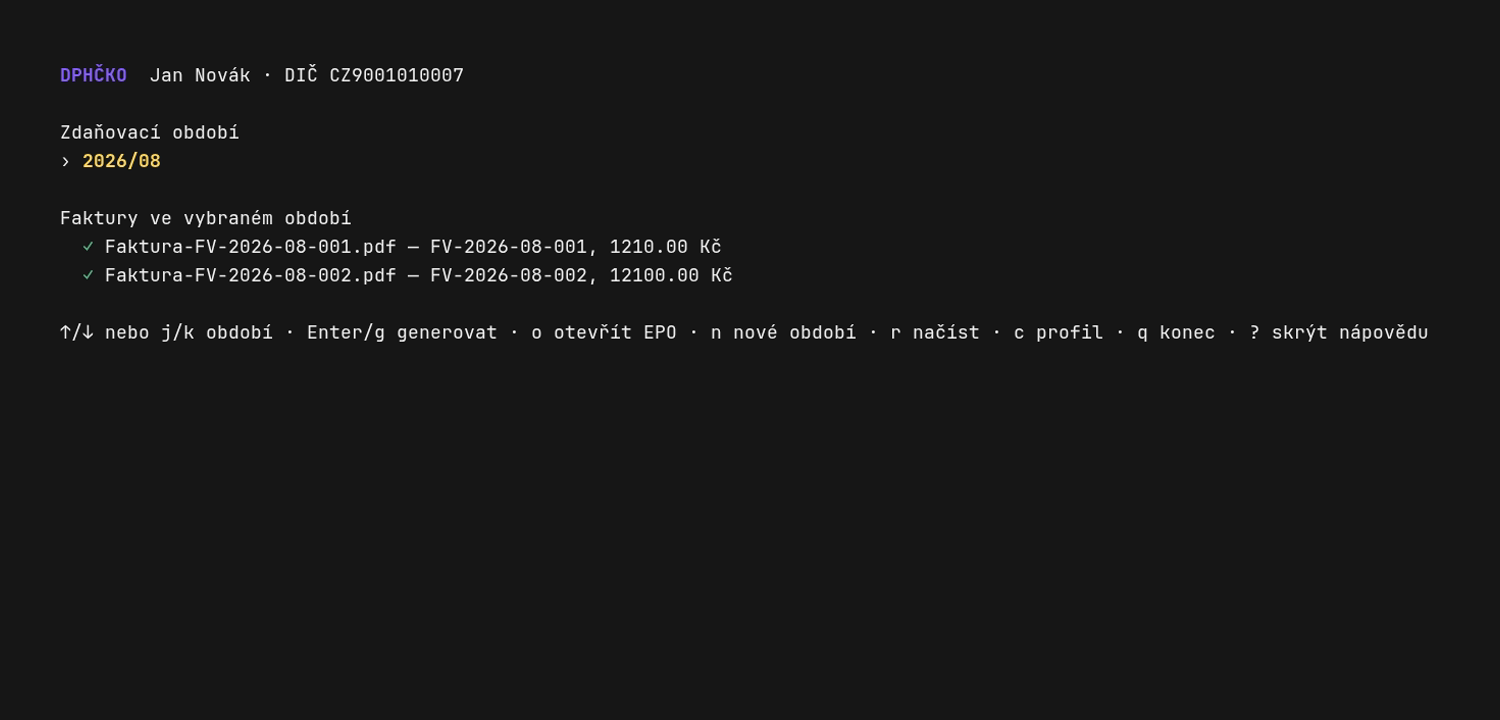
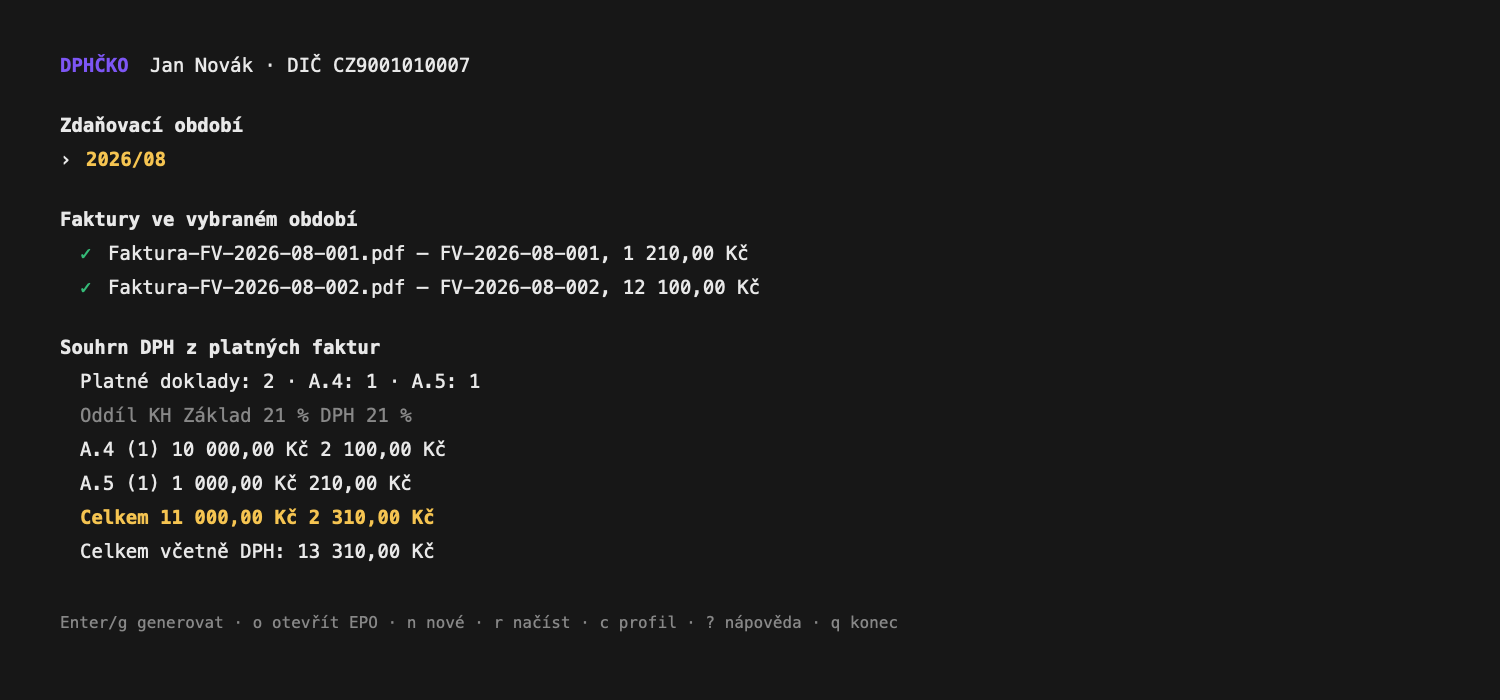
Show VAT summary on dashboard

diff --git a/internal/ui/dashboard_test.go b/internal/ui/dashboard_test.go
@@ -1,0 +1,78 @@
+package ui
+
+import (
+	"errors"
+	"strings"
+	"testing"
+	"time"
+
+	"dphcko/internal/config"
+	"dphcko/internal/invoice"
+)
+
+func TestDashboardSummaryMatchesA4AndA5(t *testing.T) {
+	date := time.Date(2026, 8, 15, 0, 0, 0, 0, time.UTC)
+	results := []invoice.FileResult{
+		{Path: "Faktura-FV-2026-08-001.pdf", Invoice: &invoice.Invoice{Number: "FV-2026-08-001", TaxableDate: date, TaxBase: 100000, Tax: 21000, Total: 121000}},
+		{Path: "Faktura-FV-2026-08-002.pdf", Invoice: &invoice.Invoice{Number: "FV-2026-08-002", RecipientVATID: "CZ27082440", TaxableDate: date, TaxBase: 1000000, Tax: 210000, Total: 1210000}},
+	}
+
+	summary, invalid, err := summarizeResults(results)
+	if err != nil {
+		t.Fatal(err)
+	}
+	if invalid != 0 || len(summary.A4) != 1 || len(summary.A5) != 1 {
+		t.Fatalf("neočekávané rozdělení: invalid=%d, A.4=%d, A.5=%d", invalid, len(summary.A4), len(summary.A5))
+	}
+	if summary.Base != 1100000 || summary.Tax != 231000 || summary.Total != 1331000 {
+		t.Fatalf("neočekávané součty: %#v", summary)
+	}
+}
+
+func TestDashboardViewShowsTaxSummaryBeforeGeneration(t *testing.T) {
+	date := time.Date(2026, 8, 15, 0, 0, 0, 0, time.UTC)
+	m := dashboard{
+		cfg:     config.Config{Profile: config.Profile{FirstName: "Jan", LastName: "Novák", VATID: "CZ9001010007"}},
+		periods: []Period{{Year: 2026, Month: time.August}},
+		results: []invoice.FileResult{
+			{Path: "Faktura-FV-2026-08-001.pdf", Invoice: &invoice.Invoice{Number: "FV-2026-08-001", TaxableDate: date, TaxBase: 100000, Tax: 21000, Total: 121000}},
+			{Path: "Faktura-FV-2026-08-002.pdf", Invoice: &invoice.Invoice{Number: "FV-2026-08-002", RecipientVATID: "CZ27082440", TaxableDate: date, TaxBase: 1000000, Tax: 210000, Total: 1210000}},
+		},
+	}
+
+	view := m.View().Content
+	for _, expected := range []string{
+		"Souhrn DPH z platných faktur",
+		"Platné doklady: 2 · A.4: 1 · A.5: 1",
+		"11 000,00 Kč",
+		"2 310,00 Kč",
+		"13 310,00 Kč",
+	} {
+		if !strings.Contains(view, expected) {
+			t.Fatalf("obrazovka neobsahuje %q:\n%s", expected, view)
+		}
+	}
+}
+
+func TestDashboardSummaryWarnsAboutInvalidInvoices(t *testing.T) {
+	m := dashboard{
+		results: []invoice.FileResult{{Path: "vadna.pdf", Err: errors.New("chybí QR Faktura")}},
+	}
+	view := m.View().Content
+	if !strings.Contains(view, "Generování je zablokované. Chybné faktury: 1") {
+		t.Fatalf("chybí upozornění na blokované generování:\n%s", view)
+	}
+}
+
+func TestFormatCZK(t *testing.T) {
+	for value, want := range map[invoice.Money]string{
+		0:        "0,00 Kč",
+		121000:   "1 210,00 Kč",
+		1331000:  "13 310,00 Kč",
+		-2100500: "-21 005,00 Kč",
+	} {
+		if got := formatCZK(value); got != want {
+			t.Errorf("formatCZK(%d) = %q, chci %q", value, got, want)
+		}
+	}
+}

diff --git a/internal/ui/dashboard.go b/internal/ui/dashboard.go
@@ -13,6 +13,7 @@ import (
 	"charm.land/lipgloss/v2"
 	"dphcko/internal/config"
 	"dphcko/internal/invoice"
+	"dphcko/internal/tax"
 )
 
 type Action int
@@ -140,8 +141,23 @@ func (m dashboard) View() tea.View {
 		if result.Err != nil {
 			fmt.Fprintf(&b, "  %s %s — %v\n", errStyle.Render("✗"), name, result.Err)
 		} else {
-			fmt.Fprintf(&b, "  %s %s — %s, %s Kč\n", okStyle.Render("✓"), name, result.Invoice.Number, result.Invoice.Total.String())
+			fmt.Fprintf(&b, "  %s %s — %s, %s\n", okStyle.Render("✓"), name, result.Invoice.Number, formatCZK(result.Invoice.Total))
 		}
+	}
+	b.WriteString("\nSouhrn DPH z platných faktur\n")
+	summary, invalid, summaryErr := summarizeResults(m.results)
+	if summaryErr != nil {
+		fmt.Fprintf(&b, "  %s %v\n", errStyle.Render("✗"), summaryErr)
+	} else {
+		if invalid > 0 {
+			fmt.Fprintf(&b, "  %s Generování je zablokované. Chybné faktury: %d; součty zahrnují jen platné doklady.\n", errStyle.Render("!"), invalid)
+		}
+		fmt.Fprintf(&b, "  Platné doklady: %d · A.4: %d · A.5: %d\n", len(summary.Invoices), len(summary.A4), len(summary.A5))
+		b.WriteString(muted.Render("  Oddíl KH          Základ 21 %        DPH 21 %") + "\n")
+		fmt.Fprintf(&b, "  %-12s %14s  %14s\n", fmt.Sprintf("A.4 (%d)", len(summary.A4)), formatCZK(summary.Base-summary.A5Base), formatCZK(summary.Tax-summary.A5Tax))
+		fmt.Fprintf(&b, "  %-12s %14s  %14s\n", fmt.Sprintf("A.5 (%d)", len(summary.A5)), formatCZK(summary.A5Base), formatCZK(summary.A5Tax))
+		fmt.Fprintf(&b, "  %s\n", selectedStyle.Render(fmt.Sprintf("%-12s %14s  %14s", "Celkem", formatCZK(summary.Base), formatCZK(summary.Tax))))
+		fmt.Fprintf(&b, "  Celkem včetně DPH: %s\n", formatCZK(summary.Total))
 	}
 	b.WriteString("\n")
 	if m.help {
@@ -153,6 +169,37 @@ func (m dashboard) View() tea.View {
 	view.AltScreen = true
 	view.WindowTitle = "DPHČKO"
 	return view
+}
+
+func summarizeResults(results []invoice.FileResult) (tax.Summary, int, error) {
+	invoices := make([]invoice.Invoice, 0, len(results))
+	invalid := 0
+	for _, result := range results {
+		if result.Err != nil || result.Invoice == nil {
+			invalid++
+			continue
+		}
+		invoices = append(invoices, *result.Invoice)
+	}
+	summary, err := tax.Build(invoices)
+	return summary, invalid, err
+}
+
+func formatCZK(value invoice.Money) string {
+	amount := int64(value)
+	sign := ""
+	var magnitude uint64
+	if amount < 0 {
+		sign = "-"
+		magnitude = uint64(-(amount + 1)) + 1
+	} else {
+		magnitude = uint64(amount)
+	}
+	koruny := strconv.FormatUint(magnitude/100, 10)
+	for i := len(koruny) - 3; i > 0; i -= 3 {
+		koruny = koruny[:i] + " " + koruny[i:]
+	}
+	return fmt.Sprintf("%s%s,%02d Kč", sign, koruny, magnitude%100)
 }
 
 func (m *dashboard) reload() {

diff --git a/README.md b/README.md
@@ -67,6 +67,9 @@ rendery celých stran uložených PDF bez dalších úprav.
 
 ### Načtené faktury a ovládání
 
+Ještě před generováním aplikace ukáže rozdělení dokladů do A.4 a A.5,
+celkový základ daně, DPH i částku včetně DPH.
+
 ![Přehled načtených faktur v dphcko](docs/images/dphcko-dashboard.png)
 
 ### Výsledek po načtení do MOJE daně
